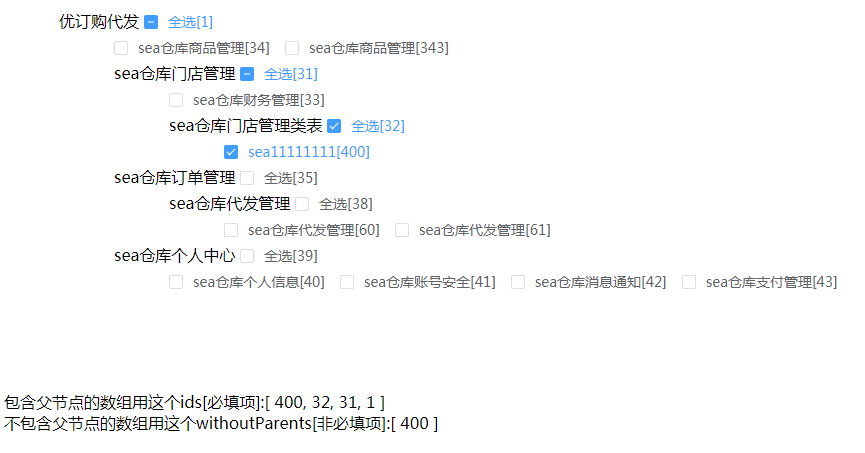
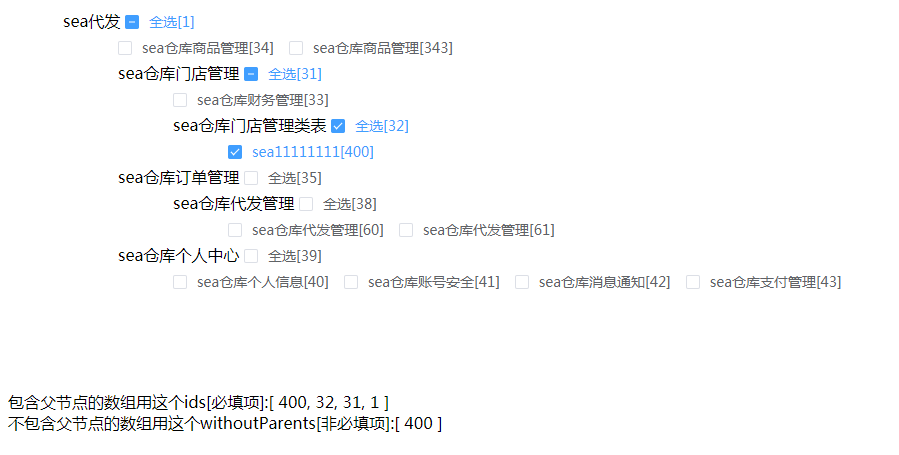
更换数据

diff --git a/src/components/HelloWorld.vue b/src/components/HelloWorld.vue
@@ -29,7 +29,7 @@ export default {
         {
           "id": 1,
           "parentId": 0,
-          "name": "优订购代发",
+          "name": "sea代发",
           "child": [
             {
               "id": 34,

diff --git a/README.md b/README.md
@@ -3,7 +3,7 @@
 > A simple tree component for vue.js
 >
 首先，感谢[JiaxinCui](https://github.com/jiaxincui)，看了他的树形组件源码，按照他的代码和思路，模仿了一个
-基于elementUI的横向树形组件用于公司的项目，附上他的项目代码[MIT](https://github.com/jiaxincui/vue-tree/blob/master/LICENSE.md) 
+基于elementUI的横向树形组件用于公司的项目，附上他的项目代码[MIT](https://github.com/jiaxincui/vue-tree/blob/master/LICENSE.md)
 
 ####Demo图片：
 ![Image text](https://github.com/Summer-Lin/vue-tree/blob/master/src/assets/demo.png)
